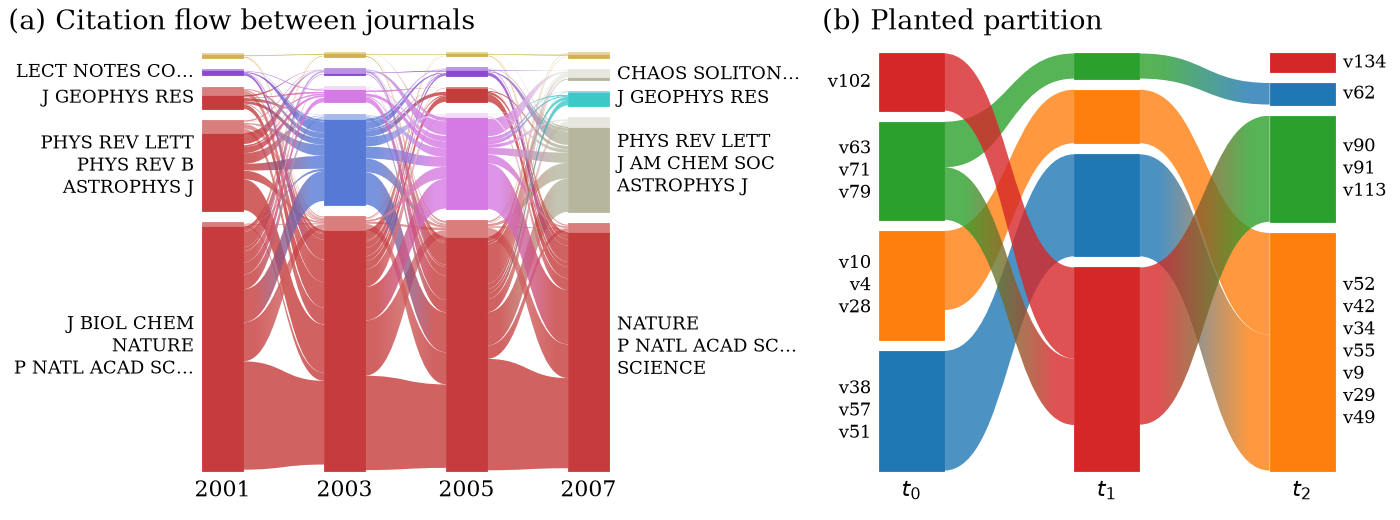
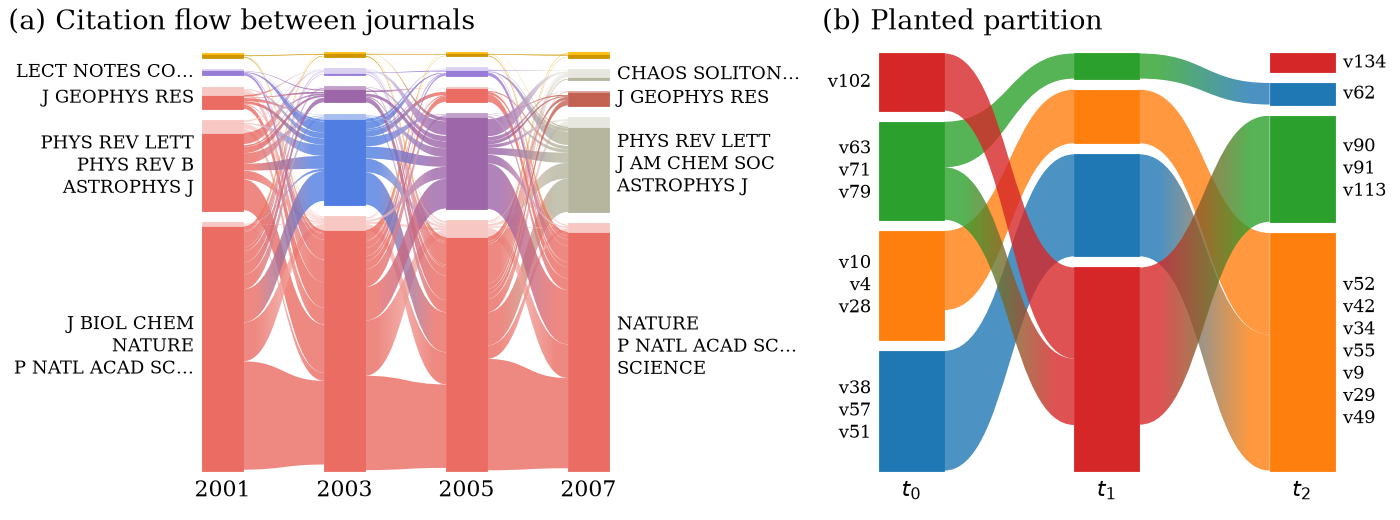
README: absolute image URLs, so the images show on PyPI; regenerate them in c3 2's colours

Changed region(s): [[0.1229, 0.0923, 0.4607, 0.9231]]

diff --git a/README.md b/README.md
@@ -77,7 +77,7 @@ ax = alluvial.plot([im_2020, im_2021], names=["2020", "2021"])
 ax.figure.savefig("alluvial.png", dpi=150)
 ```
 
-![Alluvial diagram of two Infomap partitions](docs/img/quickstart.png)
+![Alluvial diagram of two Infomap partitions](https://raw.githubusercontent.com/mapequation/alluvial-py/main/docs/img/quickstart.png)
 
 `examples/quickstart.py` makes the figure above. Networks go from left to right, and each one can be:
 
@@ -118,7 +118,7 @@ with plt.rc_context({"font.family": "serif", "font.size": 8, "pdf.fonttype": 42}
     fig.savefig("figure.pdf")
 ```
 
-![A two-panel double-column figure](docs/img/paper_figure.png)
+![A two-panel double-column figure](https://raw.githubusercontent.com/mapequation/alluvial-py/main/docs/img/paper_figure.png)
 
 `examples/paper_figure.py` makes the figure above. The PDF stays vector: a two-colour streamline is a 256 × 1 gradient strip
 clipped to its outline (`gradient=False` makes them solid). For very large diagrams, `rasterized=True` rasterizes the
@@ -139,7 +139,7 @@ ax = alluvial.plot(networks, module_level=2)
 geom = alluvial.layout(networks, expand=[(1, "1"), (1, "1:1")])  # network index (or id), module path
 ```
 
-![Top modules and module level 2](docs/img/hierarchy.png)
+![Top modules and module level 2](https://raw.githubusercontent.com/mapequation/alluvial-py/main/docs/img/hierarchy.png)
 
 `examples/hierarchy.py` makes the figure above. Each `ModuleGeometry` has its `level`, and
 `NetworkGeometry.outlines` holds the parent-module boxes.
@@ -171,7 +171,7 @@ geom = alluvial.layout(
 )
 ```
 
-![Highlighted journals with a legend](docs/img/highlight.png)
+![Highlighted journals with a legend](https://raw.githubusercontent.com/mapequation/alluvial-py/main/docs/img/highlight.png)
 
 `examples/highlight.py` makes the figure above. Identifiers are matched like the networks' nodes (`identifier=`),
 and numbers are allowed (`{"a": [1, 2, 3]}`). `highlight_colors` sets the colours (a list, or `{label: colour}`).
@@ -202,7 +202,7 @@ geom = alluvial.layout(
 )
 ```
 
-![Four years of a citation network, modules named by field in a fixed order](docs/img/names_order.png)
+![Four years of a citation network, modules named by field in a fixed order](https://raw.githubusercontent.com/mapequation/alluvial-py/main/docs/img/names_order.png)
 
 `examples/names_order.py` makes the figure above.
 
@@ -227,7 +227,7 @@ ax = alluvial.plot(["tests/data/mlayer_states.tree"], split_layers=True)
 layers = alluvial.read("tests/data/mlayer_states.tree", split_layers=True)  # one NetworkFile per layer
 ```
 
-![A four-layer partition, one network per layer](docs/img/multilayer.png)
+![A four-layer partition, one network per layer](https://raw.githubusercontent.com/mapequation/alluvial-py/main/docs/img/multilayer.png)
 
 `examples/multilayer.py` makes the figure above from an Infomap run on a multilayer network. `colors="layer"` and
 `colors="physical_id"` colour multilayer and state networks by layer and by physical node.
